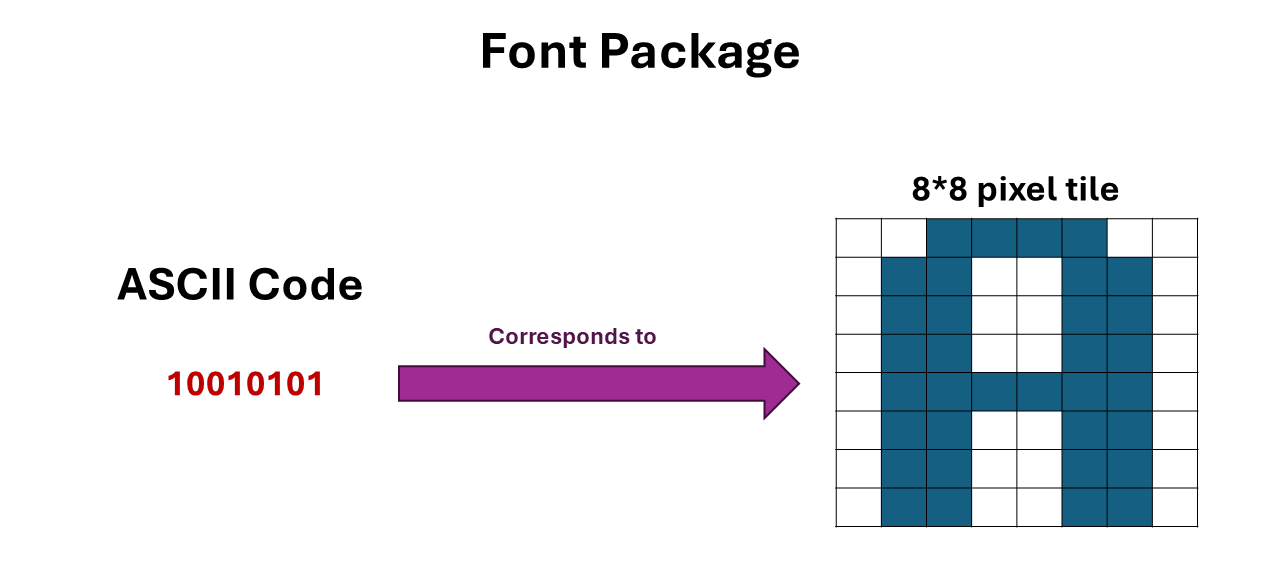
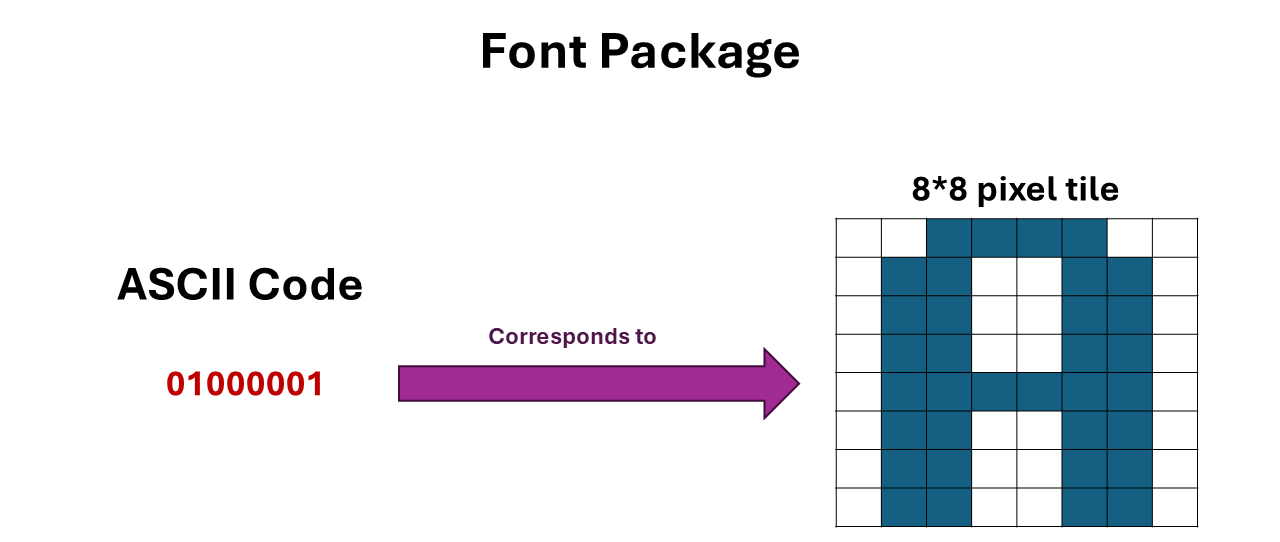
edit README

diff --git a/README.md b/README.md
@@ -1,22 +1,7 @@
-<div align="center">
-  <h1>FPGA-Based Terminal Text Editor</h1>
-</div>
 
-<p align="center" style="margin-top: 0;">
-  <a href="https://github.com/NazaninAzhdari/terminal-txt-editor" target="_blank" style="text-decoration: none;">
-    <img src="https://cdn.jsdelivr.net/gh/devicons/devicon/icons/github/github-original.svg"
-         alt="GitHub Repo"
-         width="32"
-         height="32"
-         style="vertical-align: middle;">
-    <span style="font-size: 16px; margin-left: 8px; vertical-align: middle;">
-      View the code on GitHub
-    </span>
-  </a>
-</p>
 
 ---
-This project is a **terminal‑based text editor** designed for the **Cyclone V GX FPGA**. It transforms the FPGA into a standalone text‑editing device: you can create text, modify it, store it in on‑chip RAM, view the output on a VGA monitor, and finally transmit the completed text to a PC via UART.
+This project is a **terminal‑based text editor** designed for the **Cyclone V GX FPGA**. It transforms the FPGA into a standalone text‑editing device: you can create text, modify it, store it in Block RAM, view the output on a HDMI monitor, and finally transmit the completed text to a PC via UART.
 
 ---
 
@@ -32,7 +17,7 @@ In this section, I explain exactly how this Text Editor works, so feel free to r
 The process begins when I press a key on my computer keyboard. My PC then sends the **ASCII code** for that key as a serial signal through its UART transmitter to the FPGA. The UART transmitter of the PC sends one start bit, 8‑bit ASCII data, and one stop bit.  
 The **UART_RX** module on the FPGA receives this ASCII code bit‑by‑bit. The UART_RX module is configured to handle 8 bits of data with one start bit and one stop bit (which exactly matches the way the PC transmitter sends the data). Once the module receives all bits, it converts them into a parallel 8‑bit format (ASCII code).
 
-![Input Processing Diagram](https://github.com/NazaninAzhdari/terminal-txt-editor/blob/main/doc/pic/input_processing.png)
+![Input Processing Diagram](https://nazaninazhdari.github.io/terminal-txt-editor/doc/pic/input_processing.png)
 
 ### Storage in the Character Buffer
 After the FPGA receives the ASCII code, it must store it so it can be displayed and eventually saved.  
@@ -42,7 +27,7 @@ When the FPGA receives the ASCII data of each character, it stores it in the RAM
 ### Display the Text on Monitor
 While I am typing, the system constantly updates the monitor so I can see my text. The **VGAsync** module generates the timing signals (Horizontal and Vertical Sync) needed for a **640×480 resolution** at 60 Hz. As the X/Y coordinates of the **VGAsync** module move across the screen, the **draw_characters** module fetches the ASCII codes from the RAM buffer. It uses the **font_pack** package to translate these codes into 8×8 pixel images (the image of each letter, digit, or symbol). Simultaneously, the **draw_cursor** module creates a blinking box on the screen to show exactly where the next character will be placed.
 
-![VGA Display Diagram](https://github.com/NazaninAzhdari/terminal-txt-editor/blob/main/doc/pic/display_logics.png)
+![VGA Display Diagram](https://nazaninazhdari.github.io/terminal-txt-editor/doc/pic/display_logics.png)
 
 ### Data Export (FPGA to PC)
 When I finish editing, I can send my text back to the PC to save it as a permanent file.  
@@ -50,12 +35,12 @@ When I press the transmission button on the board, the **txt_editor_FSM** switch
 The **UART_TX** module reads the ASCII characters from the buffer one by one and sends them back to the PC bit‑by‑bit at a baud rate of 115200.  
 On the PC side, the **RX.py** script is running. It listens to the serial port, collects the incoming bits, and converts them back into characters. Finally, it saves the complete text into a file named **fpga_text_output.txt**.
 
-![Transmission Diagram](https://github.com/NazaninAzhdari/terminal-txt-editor/blob/main/doc/pic/transmitting.png)
+![Transmission Diagram](https://nazaninazhdari.github.io/terminal-txt-editor/doc/pic/transmitting.png)
 
 ### The Text Editor's State Machine
 The overall behavior of the system is managed by the **txt_editor_FSM**. The system remains in the **IDLE** state until it is triggered to enter **EDITING** mode. When the text is finished and a physical transmission button is pressed, the state changes to **TRANSFERRING** to begin the export process. when the transmission is done, the systems moves into **DONE** state.
 
-![Text Editor's State Machine](https://github.com/NazaninAzhdari/terminal-txt-editor/blob/main/doc/pic/text_editor_state_machine.png)
+![Text Editor's State Machine](https://nazaninazhdari.github.io/terminal-txt-editor/doc/pic/text_editor_state_machine.png)
 
 
 ---
@@ -66,7 +51,7 @@ There are three important logics behind this text editor.
 The screen grid is the logic that divides the screen into small squares for text. The monitor has a resolution of **640x480 pixels**. Instead of treating it as one big image, the system divides it into small tiles of **8x8 pixels** each.  
 If we divide 640 by 8, we get **80 columns**, and if we divide 480 by 8, we get **60 rows**. This grid creates a total of **4,800 available slots** (80 × 60) for characters to be placed on the screen.
 
-![Screen Grid](https://github.com/NazaninAzhdari/terminal-txt-editor/blob/main/doc/pic/screen_grid.png)
+![Screen Grid](https://nazaninazhdari.github.io/terminal-txt-editor/doc/pic/screen_grid.png)
 
 ### The Block RAM Logic
 As I said in the data flow section, the `char_buffer` is the internal memory where our typing is actually saved. The reason that I have chosen this buffer to have exactly 4800 locations is to match the number of slots in the screen grid.  
@@ -76,14 +61,14 @@ So each screen slot is connected to its corresponding location in RAM; whatever 
 The `font_pack` is the library that explains how to draw each character. The font pack defines every character as an **8x8 grid of bits**. For example, for the letter "A," the font pack tells the system which specific pixels in that 8x8 box should be turned on (colored) and which should be off (background).  
 When the system wants to draw a character, it looks at the **ASCII code** in the block RAM and then asks the `font_pack` for the corresponding **8x8 pixel pattern**.
 
-![Font Package](https://github.com/NazaninAzhdari/terminal-txt-editor/blob/main/doc/pic/font_package.png)
+![Font Package](https://nazaninazhdari.github.io/terminal-txt-editor/doc/pic/font_package.png)
 
 ### How They Work Together Simply:
 The **Screen Grid** identifies a location on the monitor (for example, Column 10, Row 5).  
 The **Character Buffer** looks at that specific address in its memory to see which **ASCII code** is stored there.  
 The **Font Pack** provides the **8x8 pixel pattern** for that ASCII code so the `draw_characters` module can light up the correct pixels on screen.
 
-![Whole System](https://github.com/NazaninAzhdari/terminal-txt-editor/blob/main/doc/pic/whole_process.png)
+![Whole System](https://nazaninazhdari.github.io/terminal-txt-editor/doc/pic/whole_process.png)
 
 ---
 
@@ -95,6 +80,6 @@ The project has been tested on **Altera Cyclone V GX Starter Kit**. For this Boa
 Here is the compilation report for the text editor.  
 The resources used to implement this terminal‑based text editor on the Cyclone V GX FPGA include **382 ALMs**, **209 registers**, **38 pins**, and **38,400 block RAM bits**.  
 
-![Compilation Report](https://github.com/NazaninAzhdari/terminal-txt-editor/blob/main/doc/pic/compilation_report.png)
+![Compilation Report](https://nazaninazhdari.github.io/terminal-txt-editor/blob/main/doc/pic/compilation_report.png)
 
 ---
